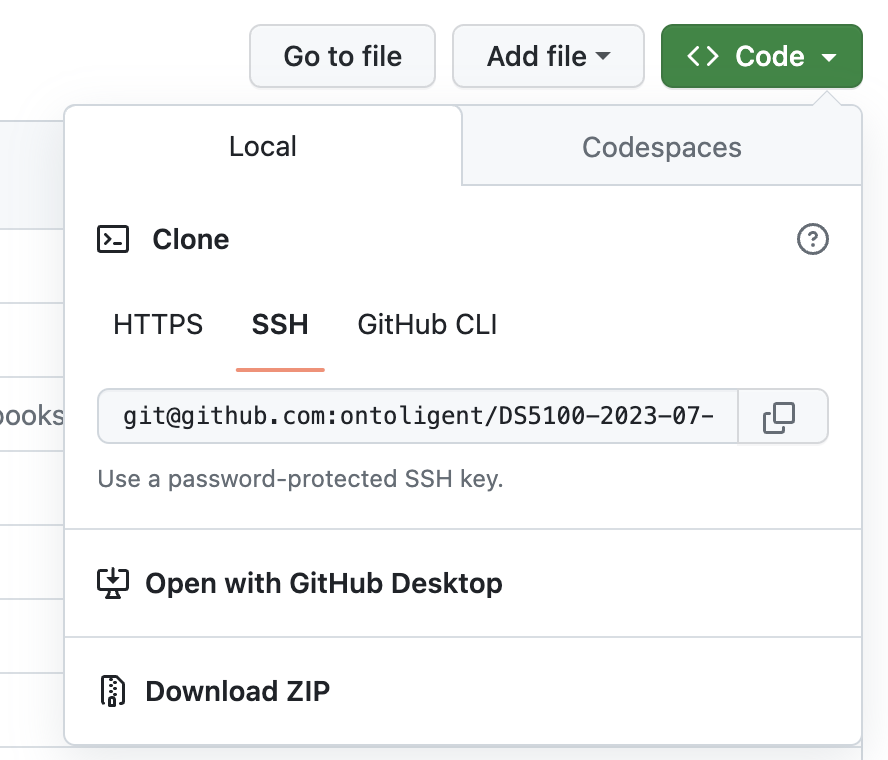
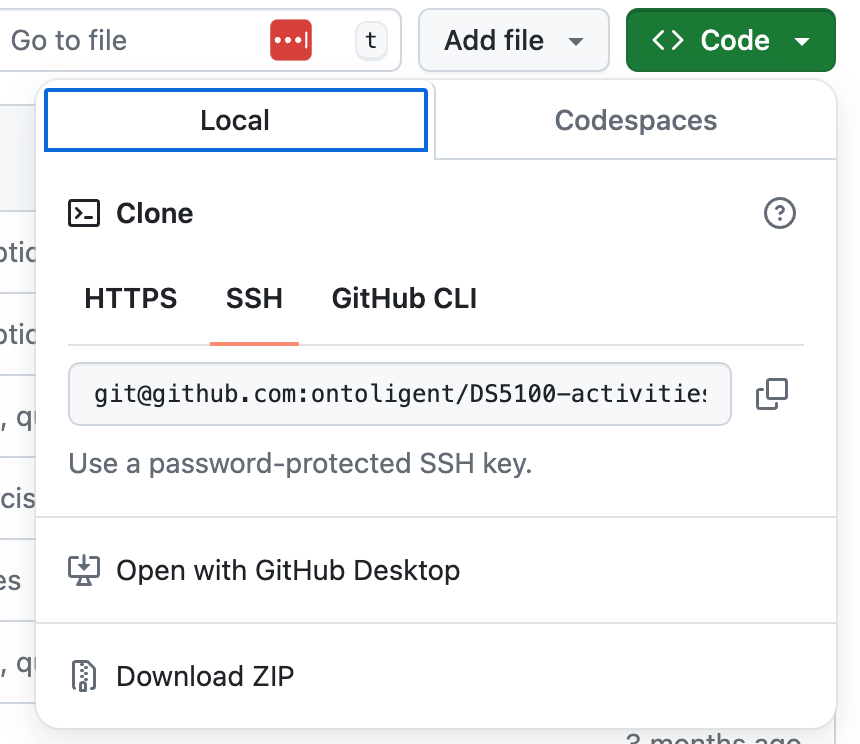
Updated link to activities repo

diff --git a/docs/activities/M01-02-Activity-GitHub.html b/docs/activities/M01-02-Activity-GitHub.html
@@ -235,7 +235,7 @@ pre > code.sourceCode > span > a:first-child::before { text-decoration: underlin
 <section id="steps" class="level2">
 <h2 class="anchored" data-anchor-id="steps">Steps</h2>
 <p><strong><em>Fork</em></strong> <strong>the course GitHub hosted repository (“repo”) to your GitHub account.</strong></p>
-<p>Go to <a href="{{< var github_url >}}">https://github.com/ontoligent/DS5100-book</a> in your web browser.</p>
+<p>Go to <a href="{{< var github_url >}}">https://github.com/ontoligent/DS5100-activities</a> in your web browser.</p>
 <div class="callout callout-style-default callout-note callout-titled">
 <div class="callout-header d-flex align-content-center">
 <div class="callout-icon-container">
